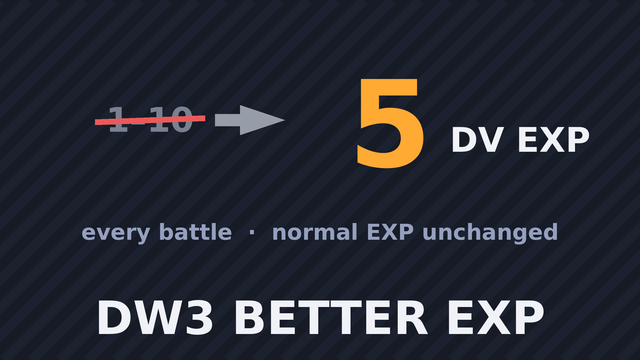
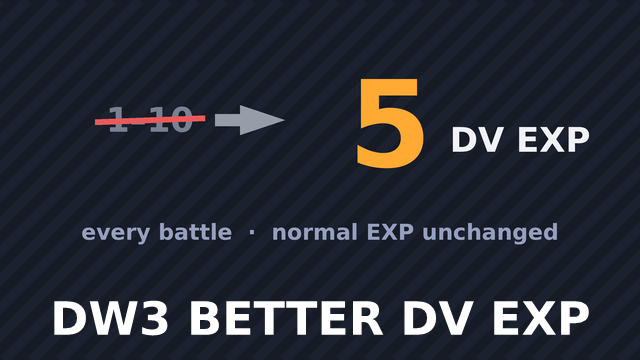
DW3 Better DV EXP 1.0.1
DW3 Better EXP is now called DW3 Better DV EXP, which says what it
changes: DV EXP only. Nothing else is different, and your settings are
kept.

Changed region(s): [[0.0625, 0.825, 0.9375, 0.9472]]

diff --git a/mods/Jack-The-Gamer@dw3-better-exp/description.md b/mods/Jack-The-Gamer@dw3-better-exp/description.md
@@ -1,4 +1,4 @@
-# DW3 Better EXP
+# DW3 Better DV EXP
 
 Every battle you win gives exactly **5 DV EXP**, instead of anywhere from 1 to 10.
 
